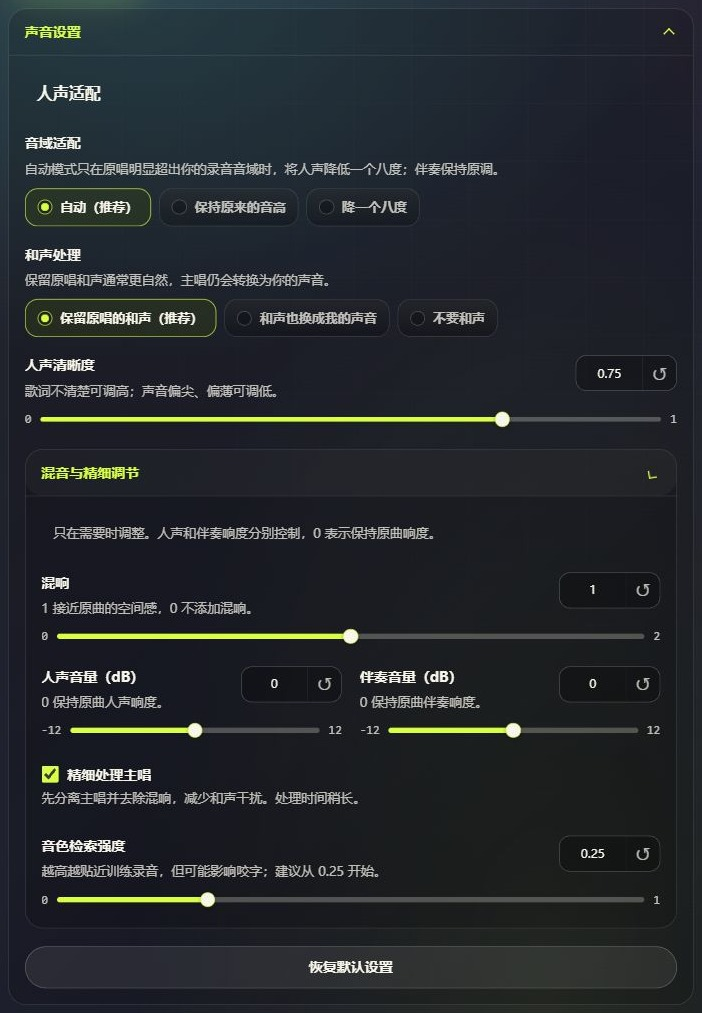
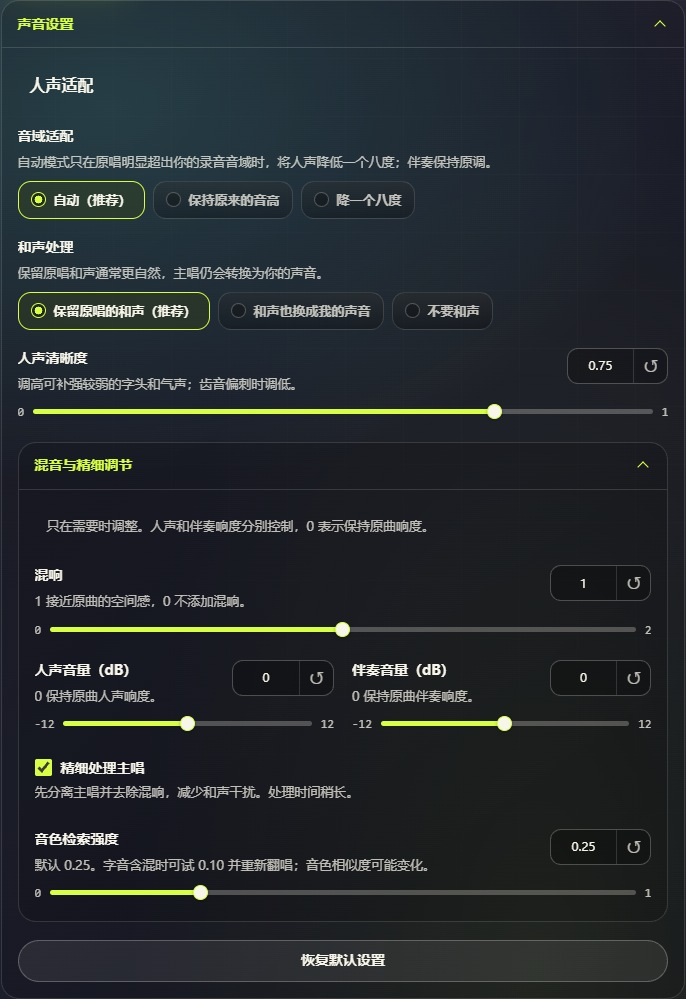
Prepare v0.3.0 release guides and refresh the public desktop screenshots

diff --git a/docs/INSTALL.md b/docs/INSTALL.md
@@ -1,5 +1,7 @@
 # 安装与运行 / Installation
 
+[English installation and upgrade instructions](#installation-and-updates-in-english)
+
 ## 支持范围
 
 目前安装脚本支持 Windows 10/11 x64、NVIDIA 显卡、Python 3.12.10。通过 uv 在项目内安装 Python 和两个独立环境，避免人声分离依赖与网页/训练依赖冲突。参考运行机器有 16GB 显存、32GB 内存；不要把这一配置当成严格最低要求，也不要把其他平台视为已验证。
@@ -8,7 +10,14 @@
 
 ## 安装
 
-先安装 [uv](https://docs.astral.sh/uv/getting-started/installation/)，然后在仓库根目录运行：
+安装 [uv](https://docs.astral.sh/uv/getting-started/installation/)。从[最新发行版](https://github.com/dh666i/AIcoversong/releases/latest)下载 `AIcoversong-source.zip` 和 `AIcoversong-source.zip.sha256`。在下载目录运行以下命令，两处显示的 SHA-256 应相同（忽略大小写）。
+
+```powershell
+Get-FileHash .\AIcoversong-source.zip -Algorithm SHA256
+Get-Content .\AIcoversong-source.zip.sha256
+```
+
+解压源码包，进入包含 `启动翻唱.bat` 的文件夹，在 PowerShell 中运行安装脚本。使用 Git 的读者也可以克隆仓库并在项目根目录执行同一命令。
 
 ```powershell
 powershell -NoProfile -ExecutionPolicy Bypass -File tools/setup.ps1 -DownloadModels
@@ -22,6 +31,13 @@ powershell -NoProfile -ExecutionPolicy Bypass -File tools/setup.ps1 -DownloadMod
 ```
 
 下载器支持断点续传、SHA-256 校验，已校验的文件不会重复下载。模型来源、单文件体积和许可说明见 [MODELS.md](MODELS.md)。如果某个固定资源上游已变更，校验会失败，请报告对应文件；不要绕过校验。
+
+**可选的男女对唱模型**约 527 MB。在「翻唱范围」中选择从歌曲自动分离男女声时需要此模型；仅制作普通翻唱或使用已有男女分轨，可跳过这一步。
+
+```powershell
+.\env\Scripts\python.exe tools/download_assets.py --duet
+.\env\Scripts\python.exe tools/download_assets.py --duet --check
+```
 
 ### 国内网络
 
@@ -47,6 +63,8 @@ powershell -NoProfile -ExecutionPolicy Bypass -File tools/setup.ps1 -DownloadMod
 2. **Git 安装**：在项目根目录运行 `git pull --ff-only`。**ZIP 安装**：将[最新版源码包](https://github.com/dh666i/AIcoversong/releases/latest/download/AIcoversong-source.zip)解压到临时目录，把解出的 `AIcoversong` 文件夹里的内容合并到原安装目录，替换同名源码。保留原目录中的录音、作品、训练模型、环境和本机配置。
 3. 双击原安装目录中的 `启动翻唱.bat`。如果浏览器里还开着旧标签页，刷新 `http://127.0.0.1:6969`。启动器会复用已经运行的服务，所以更新源码后需要重新启动服务才能载入新界面。
 
+升级到 v0.3.0 后，可以继续使用已有的个人音色。要让旧作品应用辅音蜂鸣修复，在「作品库」里从已保存的分轨创建新混音。要修复自动分轨时漏掉的合唱声部，在「创作工作台」重新选择原曲并开始翻唱，工作台会在换声前重新分离主唱与和声。两种操作都会生成新作品。
+
 ## 录音和音色
 
 网页的「我的声音」提供朗读与清唱稿。录完后试听并保存，累计足够干净的录音再开始训练。训练会使用当前已保存的数据，不会附送作者个人音色。
@@ -68,3 +86,19 @@ powershell -NoProfile -ExecutionPolicy Bypass -File tools/setup.ps1 -DownloadMod
 ## 验证边界
 
 固定依赖版本取自当前可工作的参考环境，资产 SHA-256 来自本地已用文件并尽可能对照上游清单。本仓库的 CI 不进行 GPU 训练或完整歌曲转换，不能代替一台新机器上的完整安装和音频验收。遇到安装问题请附系统、显卡、Python/uv 版本与去除私人路径的报错，不要上传个人音色、原始录音或未授权歌曲。
+
+## Installation and updates in English
+
+**Requirements.** Use a Windows 10/11 x64 PC with an NVIDIA GPU, a current NVIDIA driver and [uv](https://docs.astral.sh/uv/getting-started/installation/). Reserve at least 20 GB for setup and extra space for recordings, training and saved covers. The setup script installs Python 3.12.10 and manages two local environments. Base models and tools total about 3.02 GB, in addition to Python and PyTorch dependencies.
+
+**Install.** Download `AIcoversong-source.zip` and its matching `.sha256` file from the [latest release](https://github.com/dh666i/AIcoversong/releases/latest). Compare the output of `Get-FileHash .\AIcoversong-source.zip -Algorithm SHA256` against the digest in the checksum file. Extract the ZIP, open PowerShell in the folder containing `启动翻唱.bat`, and run:
+
+```powershell
+powershell -NoProfile -ExecutionPolicy Bypass -File tools/setup.ps1 -DownloadModels
+```
+
+For automatic duet separation, run `.\env\Scripts\python.exe tools/download_assets.py --duet` to download the optional model (about 527 MB). Supplying your own aligned male and female stems lets you skip this download. Run `启动翻唱.bat` to open the studio at `http://127.0.0.1:6969`. [Workspace guide in English](../README.en.md#using-the-workspace)
+
+**Update.** Let any active job finish and run `关闭翻唱.bat`. For a Git installation on `main`, run `git pull --ff-only`. For a ZIP installation, extract the verified release to a temporary folder, then merge its source files into the existing installation. Keep your local recordings (`recordings/`), covers (`output/`), voice models (`Applio/logs/`), settings (`Applio/assets/config.json`) and installed environments. Restart with `启动翻唱.bat`.
+
+Existing voice models work with v0.3.0. To reduce consonant buzz in a saved cover, use the library to make a new mix from its saved stems. For a missed chorus part, start a new cover from the original song so the separator can reassess the two singers before conversion. Both operations create a new library entry.

diff --git a/README.en.md b/README.en.md
@@ -6,11 +6,11 @@
 
 Local recording · Voice training · AI song covers
 
-[Download the latest source](https://github.com/dh666i/AIcoversong/releases/latest/download/AIcoversong-source.zip) · [Installation and updates](docs/INSTALL.md) · [Changelog](CHANGELOG.md) · [简体中文](README.md)
+[Download source ZIP](https://github.com/dh666i/AIcoversong/releases/latest/download/AIcoversong-source.zip) · [Release notes and checksum](https://github.com/dh666i/AIcoversong/releases/latest) · [Installation and updates](docs/INSTALL.md#installation-and-updates-in-english) · [简体中文](README.md)
 
 </div>
 
-AIcoversong brings microphone recording, voice training, vocal separation, voice conversion and mixing into one Chinese-language web interface. Audio processing runs locally; your recordings and songs do not need a third-party inference service.
+AIcoversong is a local song-cover studio for Windows PCs with NVIDIA GPUs. Train a voice from your own recordings or import an existing RVC voice model, then choose a song to cover. For duets, keep one original singer or choose a different voice for each part. The desktop web interface is in Chinese, and all audio processing runs on your PC.
 
 It builds on [Applio](https://github.com/IAHispano/Applio), RVC and [audio-separator](https://github.com/nomadkaraoke/python-audio-separator), with upstream attribution and licenses retained.
 
@@ -46,7 +46,7 @@ For a mixed duet, open **翻唱范围** to replace the male part, the female par
 
 In the library, **批量管理** selects works individually or across the current search results. Export the selected mixes as a ZIP or delete them together. Confirming deletion permanently removes the selected works' mixes, stems and run records from disk. Works moved to `output/.trash/` by an older version are still in that directory.
 
-The converted voice follows the source melody. Quality still depends on separation, training coverage, harmony and singing style; the app does not guarantee perfect pronunciation or pitch.
+During mixing, the studio detects and softens short buzzes that voice conversion can introduce on consonants. Pitch, pronunciation and timbre still depend on the vocal separation, the original performance and the pitch range covered by the training recordings.
 
 ## Quick start
 
@@ -62,9 +62,9 @@ The documented setup targets **Windows 10/11 x64 with an NVIDIA GPU**. The refer
 
 4. Run `启动翻唱.bat` (or `tools/start.ps1`). The studio opens at `http://127.0.0.1:6969`. Start under **我的声音** to train your voice, or go directly to **创作工作台** if you already have a personal voice model.
 
-Initial setup downloads roughly **3.02GB** of model/tool assets, plus Python and several GB of dependencies. Reserve at least **20GB** initially; training and saved covers use more. No personal voice model, recordings, songs or credentials are distributed with the source.
+Initial setup downloads about **3.02 GB** of models and tools, plus Python and several GB of dependencies. Reserve at least **20 GB** initially, with additional space for training and saved covers. Automatic duet separation adds an optional **527 MB** download. You can skip it when supplying your own male and female stems. [Optional model setup](docs/MODELS.md)
 
-To update an existing installation, let any training or cover finish, stop the server with `关闭翻唱.bat`, update the source and run `启动翻唱.bat` again. The [installation guide](docs/INSTALL.md) covers both Git and ZIP installations.
+Existing voice models work after upgrading. To apply the buzz reduction to an older work, create a new mix from its saved stems in the library. To recover a harmony missed by automatic separation, make a new cover from the original song. [Upgrade instructions](docs/INSTALL.md#installation-and-updates-in-english) · [Changelog](CHANGELOG.md)
 
 ## Development
 

diff --git a/docs/ARCHITECTURE.md b/docs/ARCHITECTURE.md
@@ -4,18 +4,28 @@ AIcoversong keeps the UI separate from GPU work. Importing the guided workflow d
 
 ```mermaid
 flowchart LR
-  A[Song upload] --> B[Vocals / instrumental]
-  B --> C[Lead / backing separation]
-  C --> D[Lead dereverberation]
-  D --> E[Voice conversion]
-  F[Your trained voice] --> E
-  E --> G[Vocal treatment / mixing]
-  B --> G
-  C --> G
-  G --> H[Preview / download / history]
+  A[Song upload] --> B[Vocals and instrumental]
+  B -->|Solo| C[Full vocal or refined lead]
+  B -->|Automatic duet| D[Estimate roles and review harmonies]
+  U[Uploaded duet stems] --> R[Select male or female part or both]
+  D --> R
+  C --> E[Voice conversion]
+  R --> E
+  F[Selected voice models] --> E
+  E --> G[Vocal treatment and final mix]
+  B -->|Instrumental| G
+  R -->|Preserved audio| G
+  S[Saved stems from an existing work] -->|Remix| G
+  G --> H[Preview, download and library]
 ```
 
 `tools/cover_pipeline.py` manages stages and stores each result in a unique local run folder. Separation uses `separator-env`; conversion and the web app use `env`. Stage processes release GPU resources between steps. `vocal_engine.py` handles cover-specific conversion and segment alignment. `vocal_mix.py` performs vocal treatment and final mixing.
+
+For a solo cover, refinement optionally separates the lead from the backing vocals and dereverberates the lead before conversion. For an automatic duet, `duet_separator.py` first estimates the two singers, then separates lead and backing vocals and estimates both singers again in each layer. `duet_harmony.py` uses those independent estimates to move identifiable harmony between the original role stems before conversion, preserving their sum. Uploaded, time-aligned male and female stems bypass this automatic separation and review.
+
+Only the selected roles enter voice conversion. In a duet, `duet_mix.py` combines the treated conversions with the instrumental, the unselected singer and any unassigned audio from automatic separation. Vocal treatment checks for periodic buzz in converted consonants. The duet mixer also checks automatically separated parts for amplified leakage from the other singer.
+
+Library remixes read the saved stems and write a new work. They can apply updated vocal treatment, but they reuse the original role assignments. To apply a newer harmony separation model or routing algorithm, start a new cover from the song.
 
 The UI's `/cover` action starts a background worker and returns an opaque task token. A timer calls `/cover_status` to obtain progress and terminal results. The browser keeps only this token for refresh recovery while the server is running; restarting the server clears in-memory tasks. Completed audio remains in the local works library. Cancelling requests worker cleanup before enabling another task. Covers and training share a lock to avoid concurrent GPU jobs. A completed or failed task leaves the current upload available for another attempt.
 

diff --git a/CHANGELOG.md b/CHANGELOG.md
@@ -1,5 +1,24 @@
 # Changelog
 
+## 0.3.0 (2026-11-22)
+
+### Duet covers
+
+- Replace the male part, female part, or both. When replacing both, select one personal voice for both singers or assign a different voice to each. Supply aligned WAV or FLAC vocal stems, or install the optional local separator (approximately 527 MB).
+- Automatic separation checks the lead and backing vocals independently before conversion. It can recover backing lines assigned to the wrong singer in the initial split. This adds three local separation passes. Similar voices singing in unison can still be difficult to separate.
+- Voice processing reduces short periodic buzzes in converted consonants and suppresses duplicated vocals when a louder singer bleeds into a quiet, automatically separated part.
+
+### Desktop studio and library
+
+- Select individual works or all works in a filtered search, export their finished mixes in one ZIP, or delete the selection after confirmation. **Deletion is permanent.** Items previously moved to `output/.trash/` remain in that directory.
+- The desktop studio adds motion and clearer feedback when switching views, changing controls and following a cover in progress.
+
+### Upgrading
+
+Restart the studio after updating the source. Existing voices can be reused without retraining. To apply the new harmony check to an existing duet, create a new cover from the original song. A remix reuses its saved stems. [Installation and upgrade guide](docs/INSTALL.md)
+
+[Compare v0.2.0 and v0.3.0](https://github.com/dh666i/AIcoversong/compare/v0.2.0...v0.3.0)
+
 ## 0.2.0 (2026-11-21)
 
 - The desktop cover workspace now enables **开始翻唱** when both a song and a personal voice are selected. The monitor shows job readiness and the latest finished cover with a waveform sampled from its WAV file, duration, playback and download.
